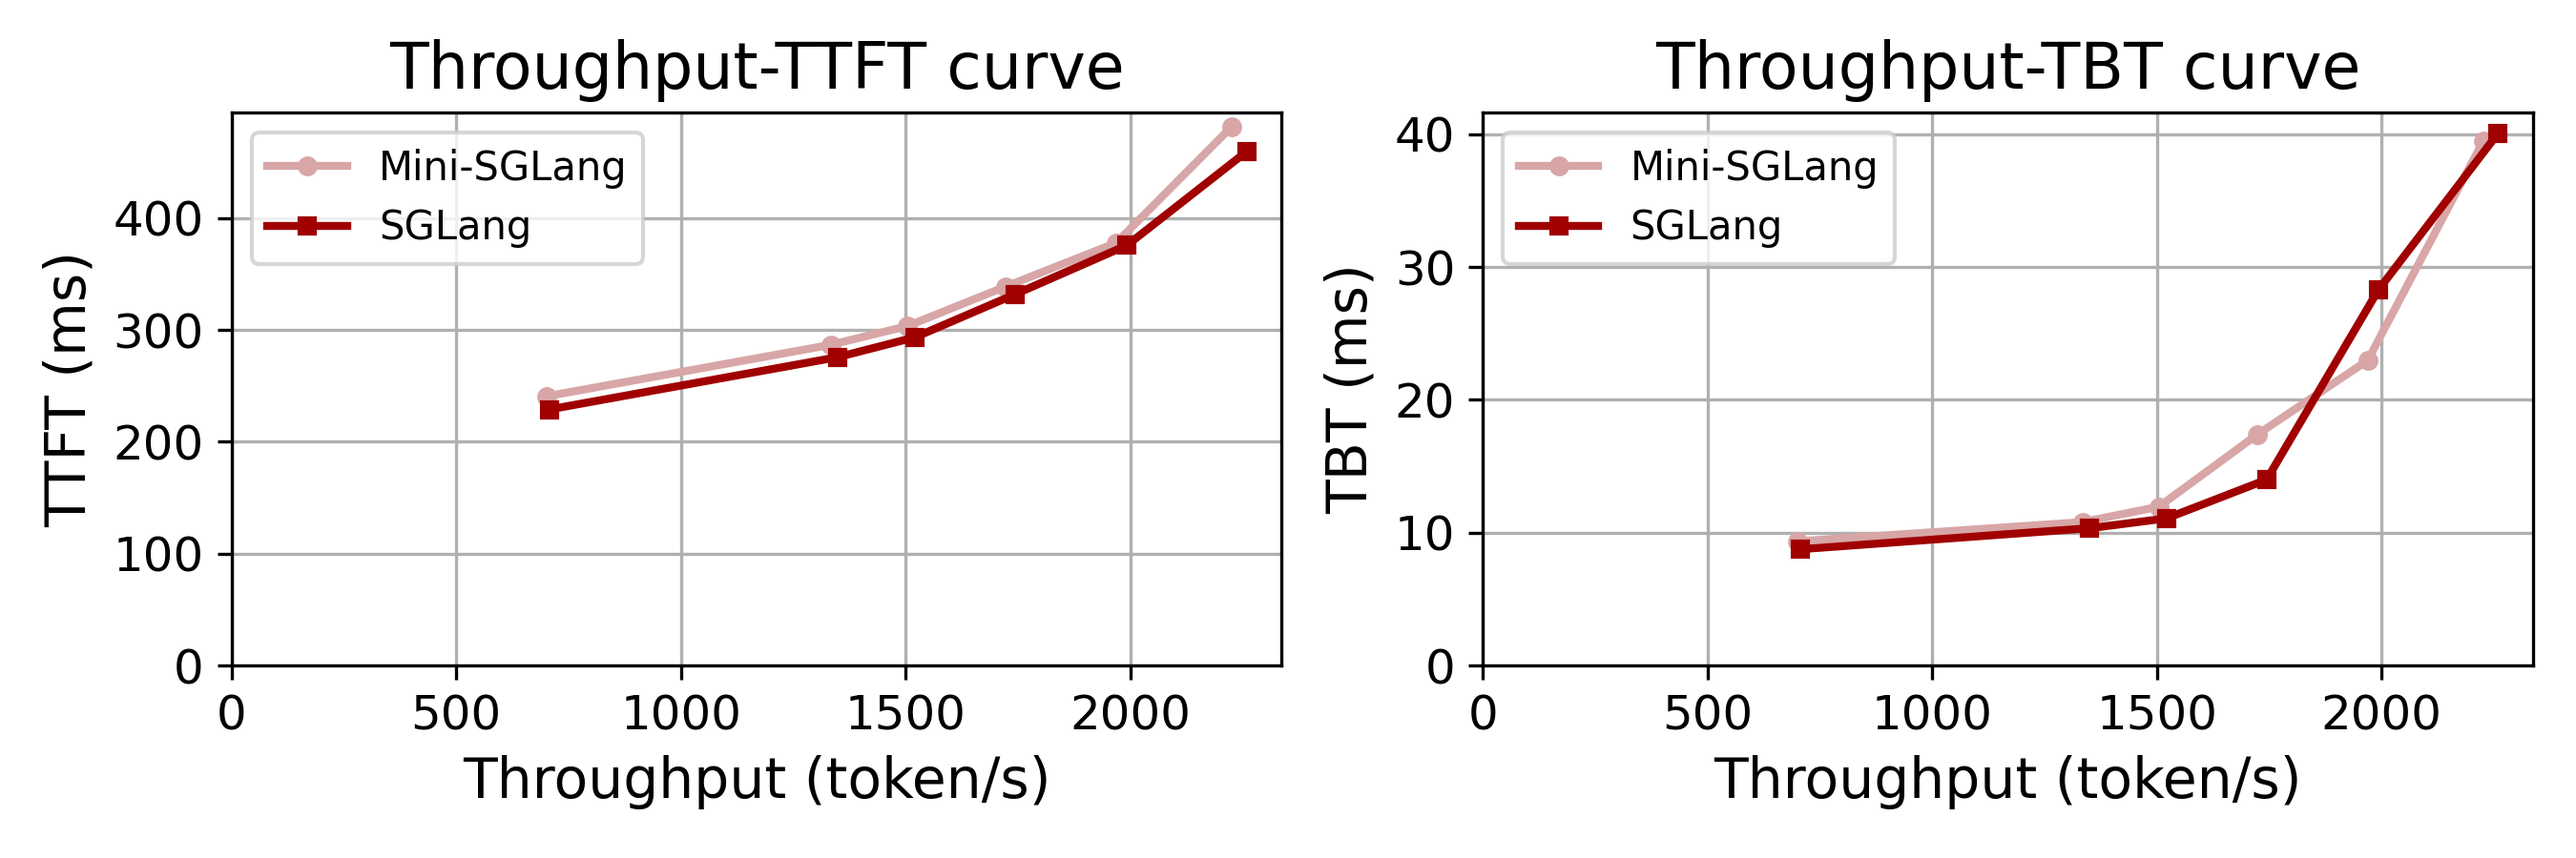
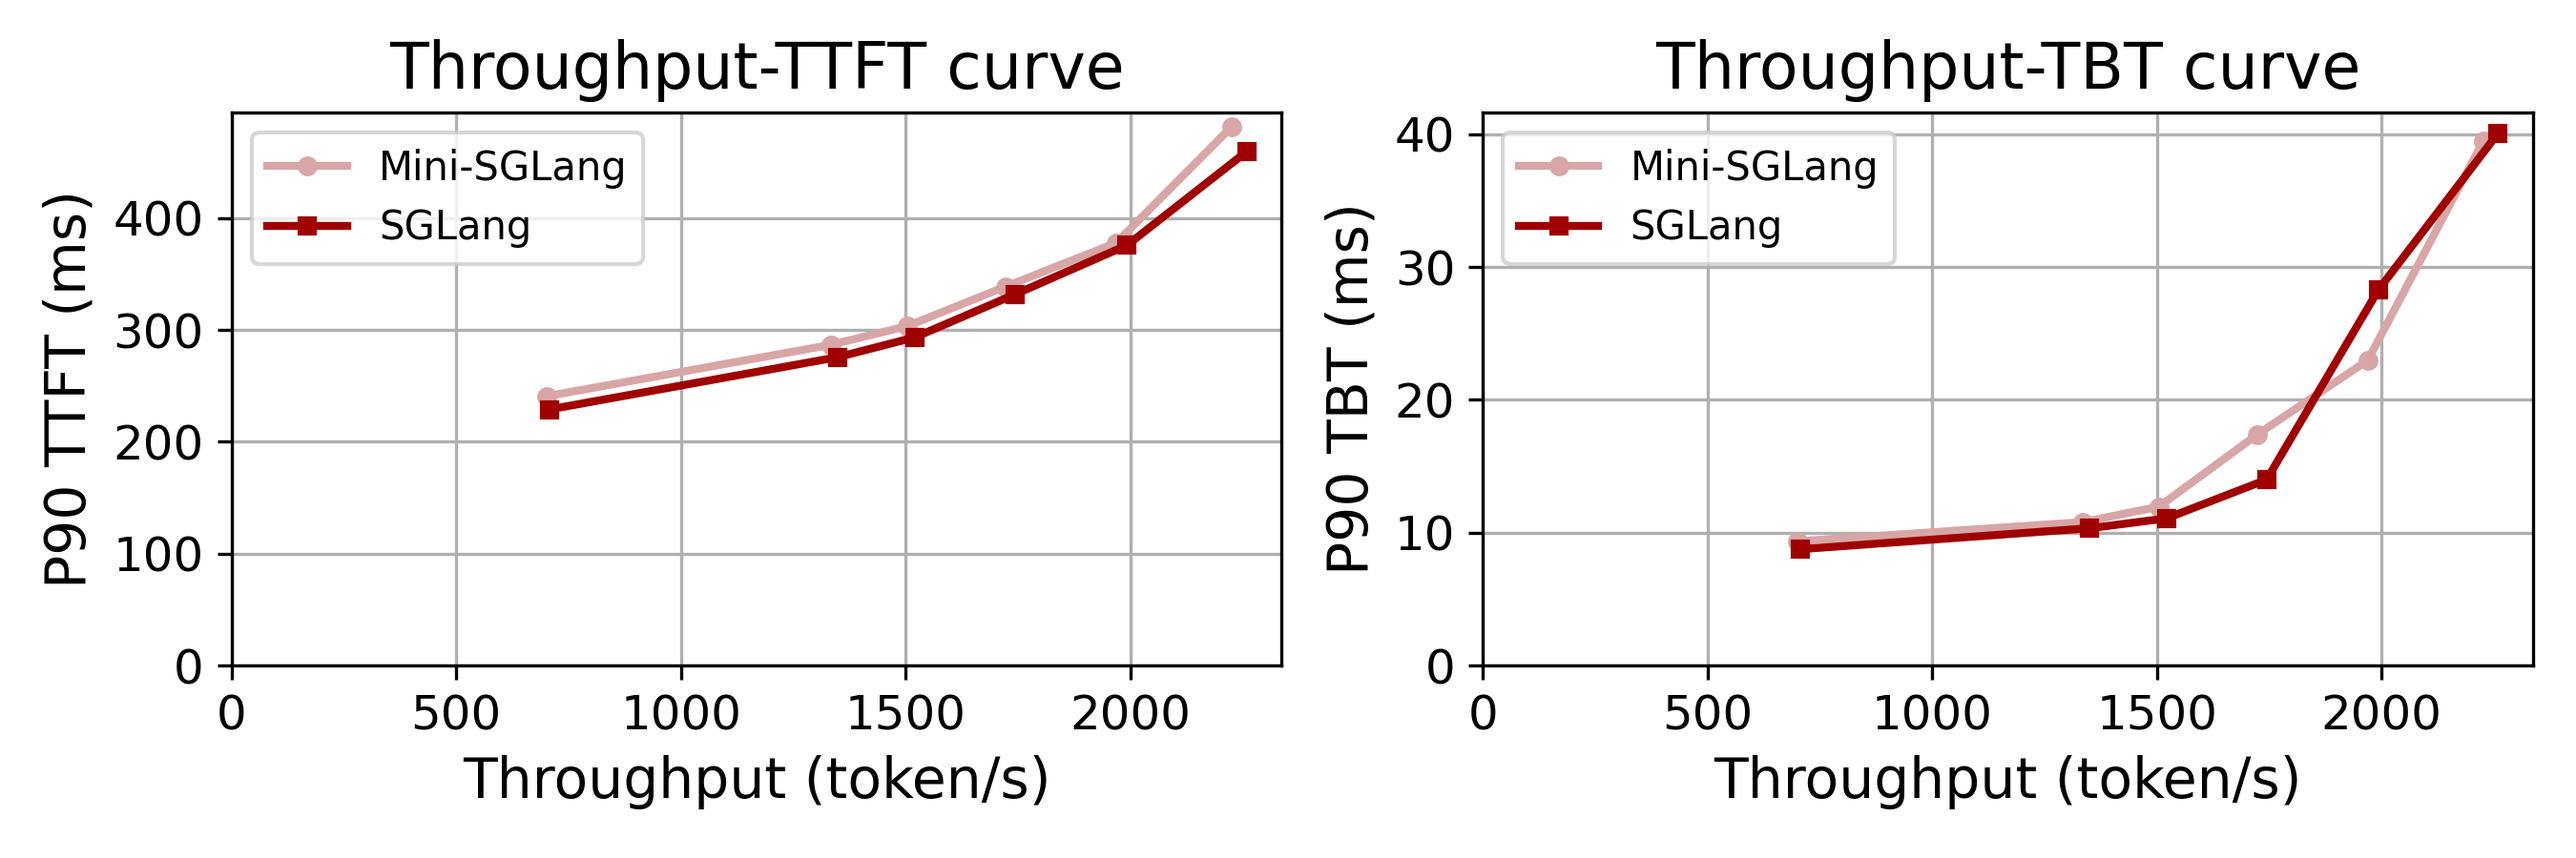
feat: update figures and some words

Changed region(s): [[0.0, 0.2178, 0.0311, 0.6844], [0.4978, 0.2489, 0.5289, 0.6844]]

diff --git a/blog/2025-12-09-minisgl.md b/blog/2025-12-09-minisgl.md
@@ -2,12 +2,14 @@
 title: "Mini-SGLang: Efficient Inference Engine in a Nutshell"
 author: "SGLang Team"
 date: "December 9, 2025"
-previewImg: /images/blog/minisgl/design.drawio.png
+previewImg: /images/blog/minisgl/logo.png
 ---
 
 We're excited to introduce **Mini-SGLang**, a lightweight yet high-performance inference framework for Large Language Models (LLMs). Derived from the [SGLang](https://github.com/sgl-project/sglang) project, Mini-SGLang is designed to demystify the complexities of modern serving systems. Despite its compact codebase, it retains the advanced features that define state-of-the-art performance, including **Radix Attention** for efficient KV cache reuse, **Chunked Prefill** for controlled memory footprint, and **Tensor Parallelism** for scalable distributed serving. With an OpenAI-compatible API and out-of-the-box support for models like Llama-3 and Qwen-3, Mini-SGLang serves as both a capable inference engine and a transparent reference implementation for researchers and developers.
 
 The source code is available at [https://github.com/sgl-project/mini-sglang](https://github.com/sgl-project/mini-sglang).
+
+<!-- ![Header](/images/blog/minisgl/logo.png) -->
 
 ## Motivation: Why Mini-SGLang?
 
@@ -21,7 +23,7 @@ Despite its simplicity, Mini-SGLang supports both online and offline inference a
 
 ### Quick Research Prototype
 
-Many ML and system researchers struggle to integrate their optimizations into existing framework. On one hand, injecting new logic into complex frameworks like SGLang is risky: you may break implicit invariants of the system, which gives rise to subtle bugs. On the other hand, building an inference engine from scratch is tedious, requiring significant effort to handle infrastructure details (e.g., frontend servers, tokenization, NCCL communication) just to match state-of-the-art baselines.
+Many ML and system researchers struggle to integrate their optimizations into existing framework. On one hand, injecting new logic into complex frameworks like SGLang is risky: you may easily break implicit invariants of the system, which gives rise to subtle bugs. On the other hand, building an inference engine from scratch is tedious, requiring significant effort to handle infrastructure details (e.g., frontend servers, tokenization, NCCL communication) just to match state-of-the-art baselines.
 
 Mini-SGLang strikes a balance. It offers an out-of-the-box, high-performance framework that is easy to inspect, extend and optimize. It handles the heavy lifting of infrastructure while being flexible enough for rapid prototyping. Additionally, Mini-SGLang provides **OpenAI-compatible benchmark utilities**, facilitating end-to-end performance analysis and comparison against various serving engines, such as [SGLang](https://github.com/sgl-project/sglang), [vLLM](https://github.com/vllm-project/vllm) and [TensorRT-LLM](https://github.com/NVIDIA/TensorRT-LLM). For kernel developers, Mini-SGLang also provides fine-grained **NVTX annotations**, which are very valuable for kernel debugging and performance profiling.
 
@@ -51,7 +53,7 @@ To run an ablation study without overlap scheduling, set the environment variabl
 
 Mini-SGLang integrates state-of-the-art attention kernels to ensure top performance. It leverages [FlashAttention-3](https://github.com/Dao-AILab/flash-attention) for prefill kernel and [FlashInfer](https://github.com/flashinfer-ai/flashinfer) for decode kernel on NVIDIA Hopper architecture.
 
-Following [FlashInfer](https://github.com/flashinfer-ai/flashinfer) and [SGLang](https://github.com/sgl-project/sglang.git), Mini-SGLang also integrates just-in-time (JIT) compiled kernel for better runtime performance. We adopt [TVM FFI](https://github.com/apache/tvm-ffi) for Python binding, which is much faster than the default PyTorch interface due to its lightweight design.
+Following [FlashInfer](https://github.com/flashinfer-ai/flashinfer) and [SGLang](https://github.com/sgl-project/sglang), Mini-SGLang also integrates just-in-time (JIT) compiled kernel for better runtime performance. We adopt [TVM FFI](https://github.com/apache/tvm-ffi) for Python binding, which is much faster than the default PyTorch interface due to its lightweight design.
 
 ### Interactive Shell Mode
 
@@ -65,14 +67,9 @@ To evaluate the performance of Mini-SGLang, we conducted comprehensive experimen
 
 ### Offline Inference Throughput
 
-We evaluated Mini-SGLang's offline throughput against Nano-vLLM and vLLM on a single NVIDIA H200 GPU. Following the methodology from [Nano-vLLM](https://github.com/GeeeekExplorer/nano-vllm/), we used the [Qwen3-0.6B](https://huggingface.co/Qwen/Qwen3-0.6B/) model and also tested the larger [Qwen3-14B](https://huggingface.co/Qwen/Qwen3-14B/) model to assess performance at scale. We focused on Qwen3 models due to the current limitations of the Nano-vLLM baseline.
+We evaluated Mini-SGLang's offline throughput against Nano-vLLM on a single NVIDIA H200 GPU. Following the methodology from [Nano-vLLM](https://github.com/GeeeekExplorer/nano-vllm/), we used the [Qwen3-0.6B](https://huggingface.co/Qwen/Qwen3-0.6B/) model and also tested the larger [Qwen3-14B](https://huggingface.co/Qwen/Qwen3-14B/) model to assess performance at scale. We focused on Qwen3 models due to the current limitations of the Nano-vLLM baseline.
 
 The throughput results (in tokens per second) are shown below:
-
-<!-- | Model      | Output Tokens | Mini-SGLang          | Nano-vLLM | Mini-SGLang w/o overlap |
-| ---------- | ------------- | ---------------------- | ---------  | --- |
-| Qwen3-0.6B | 133,966       | **20,711**             | 19,638    | 15,014                  |
-| Qwen3-14B  | 133,966       | **5,811**              | 5,560     | 5,314                   | -->
 
 ![Offline-Benchmark](/images/blog/minisgl/offline.png)
 
@@ -83,11 +80,6 @@ The results show that Mini-SGLang consistently outperforms Nano-vLLM baseline on
 ### Online Serving Latency
 
 To assess real-world serving performance, we benchmarked Mini-SGLang against SGLang using a realistic workload from the [Qwen trace](https://github.com/alibaba-edu/qwen-bailian-usagetraces-anon/blob/main/qwen_traceA_blksz_16.jsonl). We replayed 1,000 requests to a [Qwen3-32B](https://huggingface.co/Qwen/Qwen3-32B) model deployed with 4-way tensor parallelism on 4 H200 GPUs. We measured throughput, 90th percentile (P90) Time To First Token (TTFT), and Time Between Tokens (TBT).
-
-<!-- | System      | Throughput (token/s) | P90 TTFT (ms) | P90 TBT (ms) |
-| ----------- | -------------------- | ------------- | ------------ |
-| Mini-SGLang | 2165                 | 725           | 43.88        |
-| SGLang      | 2149                 | 744           | 45.11        | -->
 
 ![Online-Benchmark](/images/blog/minisgl/online.png)
 
@@ -116,4 +108,4 @@ We invite you to explore the [source code](https://github.com/sgl-project/mini-s
 
 - We would like to thank the SGLang team and community for their generous support and feedback, especially Liangsheng Yin, Lianmin Zheng and many others.
 - We would like to thank [MisakaVan](https://github.com/MisakaVan) for his prominent contribution in testing, documentation, code improvement, and [Yi Pan](https://github.com/Conless) for the initial PyTorch implementation of C++ NCCL communicator.
-- We learn a lot from the system design of SGLang, FlashInfer, Nano-vLLM, which jointly help make Mini-SGLang a clean yet robust system.
+- We learn a lot from the system design of SGLang, FlashInfer, vLLM and Nano-vLLM, which jointly help make Mini-SGLang a clean yet robust system.
